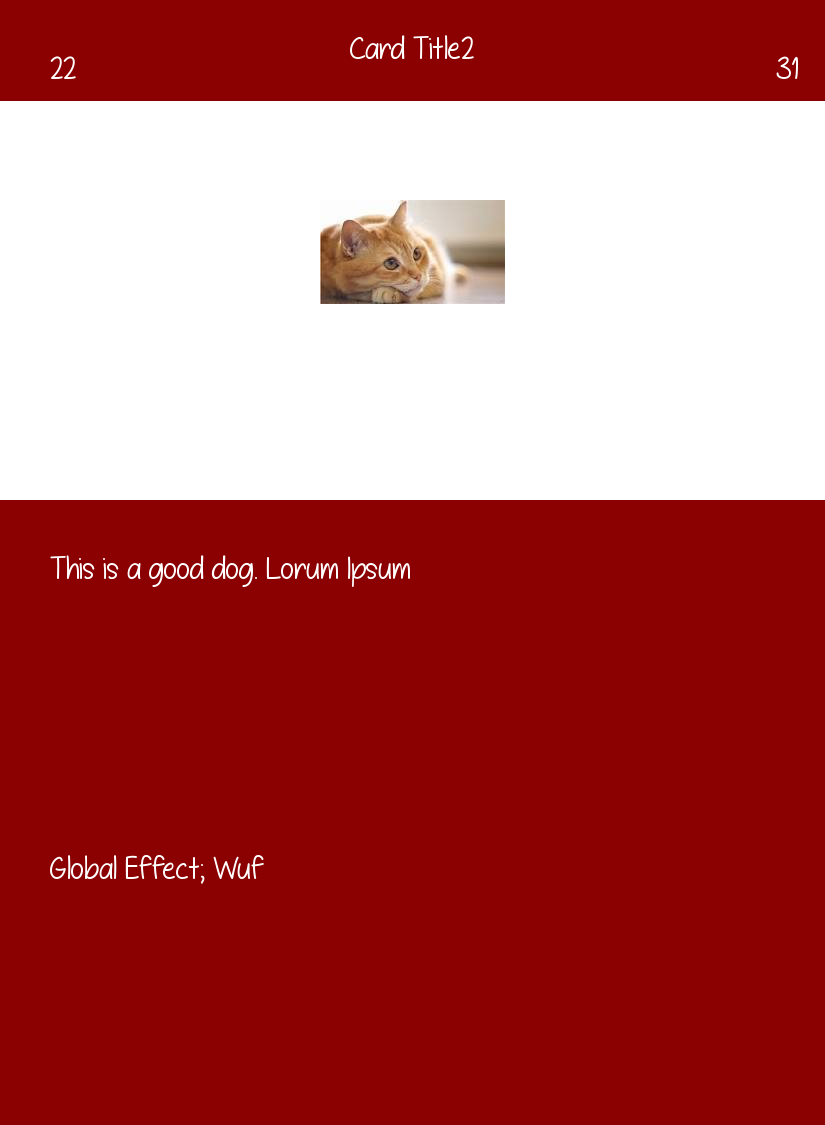
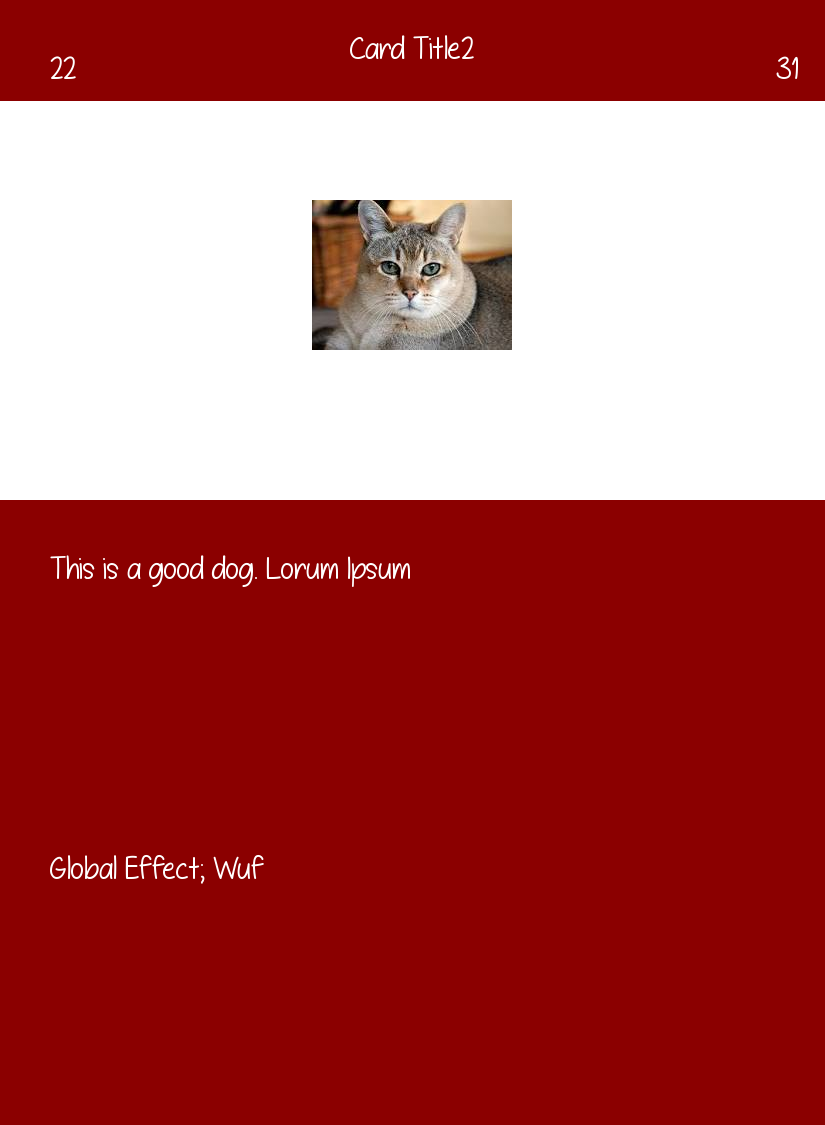
sample card

Changed region(s): [[0.3636, 0.1556, 0.6364, 0.3111]]

diff --git a/main.py b/main.py
@@ -4,7 +4,7 @@ from physical_sizes import *
 from card_layout import *
 import yaml
 
-with open("card1.yml", 'r') as stream:
+with open("card_details.yml", 'r') as stream:
     try:
         data = yaml.load(stream) 
     except yaml.YAMLError as exc:
@@ -17,10 +17,13 @@ for idx, card in enumerate(data):
     CARD_VALUE_LEFT    = data[card][2]['CARD_VALUE_LEFT']
     CARD_VALUE_RIGHT   = data[card][3]['CARD_VALUE_RIGHT']
     TITLE              = data[card][4]['TITLE']
+    FOCUS_IMAGE        = data[card][5]['FOCUS_IMAGE']
+    
+    print(FOCUS_IMAGE)
 
     source_img = Image.new("RGB", (CARD_WIDTH, CARD_HEIGHT), "white")
     draw = ImageDraw.Draw(source_img)
-    draw.rectangle(((0, 0), (CARD_WIDTH, CARD_HEADER_HEIGHT )), fill=CARD_COLOR)   # Bacjground Color
+    draw.rectangle(((0, 0), (CARD_WIDTH, CARD_HEADER_HEIGHT )), fill=CARD_COLOR)   # Background Color
     draw.rectangle(((0, CARD_HEADER_HEIGHT + CARD_IMAGE_AREA_HEIGHT), (CARD_WIDTH, CARD_HEIGHT )), fill=CARD_COLOR)   # Background Color
 
     font = ImageFont.truetype(FONT, FONT_SIZE)
@@ -33,7 +36,7 @@ for idx, card in enumerate(data):
 
     draw.text((CARD_DESCRIPTION_INSERT, CARD_HEADER_HEIGHT + CARD_IMAGE_AREA_HEIGHT + CARD_DESCRIPTION_MARGIN + CARD_DESCRIPTION_HEIGHT), CARD_DESCRIPTION_2, font=font)
 
-    img = Image.open('test2.jpg', 'r')
+    img = Image.open(FOCUS_IMAGE, 'r')
     img_w, img_h = img.size
     offset = ((CARD_WIDTH - img_w)/ 2, CARD_HEADER_HEIGHT + 100 )
     source_img.paste(img, offset)
